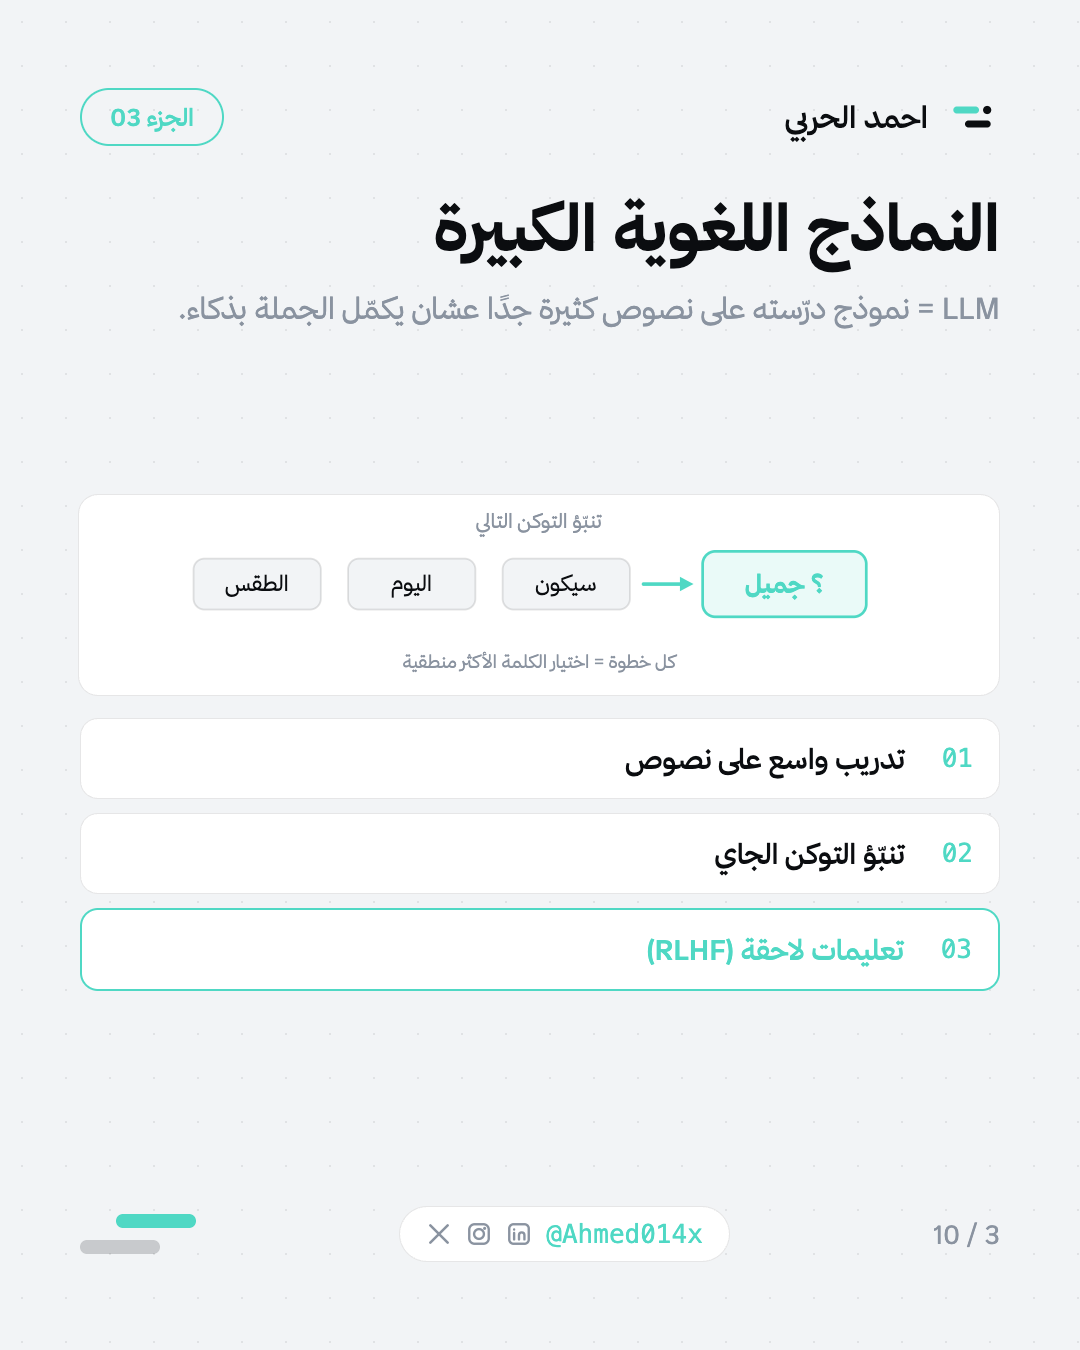
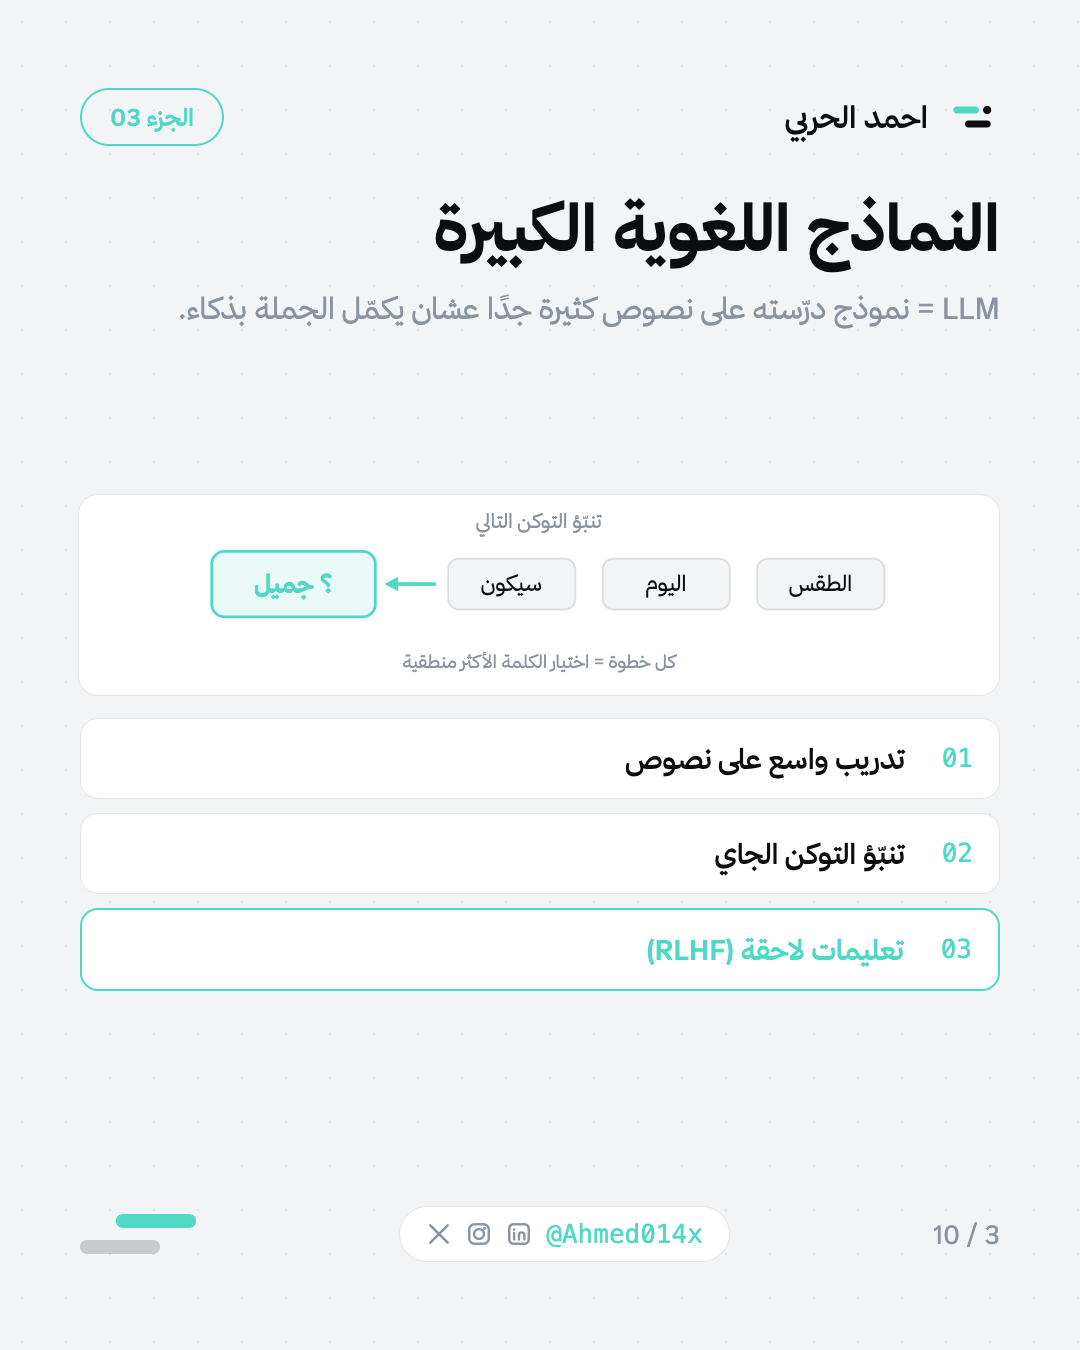
Update brand package HTML and PNG assets to enhance visual consistency, including adjustments to SVG elements and text direction for improved user experience in the generative AI story and poster series.

Changed region(s): [[0.5806, 0.4044, 0.825, 0.4667], [0.1833, 0.4044, 0.3972, 0.4667], [0.4583, 0.4044, 0.55, 0.4667]]

diff --git a/brand-package/html/سلسلة-الذكاء-التوليدي.html b/brand-package/html/سلسلة-الذكاء-التوليدي.html
@@ -50,32 +50,32 @@ body{margin:0;background:#e8ebee;font-family:'Thmanyah Sans',sans-serif}
   <div style="flex:1;display:flex;flex-direction:column;justify-content:center;gap:22px">
     <div style="display:grid;grid-template-columns:1fr 1fr;gap:20px">
       <div style="background:#ffffff;border:1px solid rgba(11,13,16,.10);border-radius:20px;padding:28px;text-align:center">
-        <div style="display:flex;justify-content:center;margin-bottom:16px"><svg width="44" height="44" viewBox="0 0 96 96" fill="none" stroke="#0b0d10" stroke-width="6" stroke-linecap="round"><circle cx="28" cy="48" r="14"/><path d="M42 48h16"/><circle cx="72" cy="28" r="12"/><circle cx="72" cy="68" r="12"/><path d="M58 48L72 34M58 48L72 62"/></svg></div>
+        <div style="display:flex;justify-content:center;margin-bottom:16px"><svg width="44" height="44" viewBox="0 0 96 96" fill="none" stroke="#0b0d10" stroke-width="6" stroke-linecap="round"><circle cx="68" cy="48" r="14"/><path d="M54 48h-16"/><circle cx="24" cy="28" r="12"/><circle cx="24" cy="68" r="12"/><path d="M38 48L24 34M38 48L24 62"/></svg></div>
         <div style="font-size:30px;font-weight:600;color:#0b0d10">تمييزي</div>
-        <div style="margin-top:10px;font-size:24px;color:#8a93a0;line-height:1.55">مدخل → يصنّف<br/>قطة؟ سبام؟</div>
+        <div style="margin-top:10px;font-size:24px;color:#8a93a0;line-height:1.55">مدخل ← يصنّف<br/>قطة؟ سبام؟</div>
         <svg viewBox="0 0 280 90" width="100%" height="90" style="margin-top:16px">
-          <rect x="20" y="30" width="70" height="36" rx="8" fill="#f2f4f6" stroke="#8a93a0" stroke-width="2"/>
-          <text x="55" y="54" text-anchor="middle" fill="#0b0d10" font-size="16" font-family="Thmanyah Sans">صورة</text>
-          <path d="M100 48h30" stroke="#8a93a0" stroke-width="3" stroke-linecap="round"/>
-          <polygon points="130,42 142,48 130,54" fill="#8a93a0"/>
-          <rect x="150" y="18" width="50" height="28" rx="6" fill="#f2f4f6" stroke="#8a93a0" stroke-width="2"/>
-          <text x="175" y="38" text-anchor="middle" fill="#0b0d10" font-size="14" font-family="Thmanyah Sans">نعم</text>
-          <rect x="150" y="54" width="50" height="28" rx="6" fill="#f2f4f6" stroke="#8a93a0" stroke-width="2"/>
-          <text x="175" y="74" text-anchor="middle" fill="#0b0d10" font-size="14" font-family="Thmanyah Sans">لا</text>
-          <path d="M142 48 L150 32 M142 48 L150 68" stroke="#8a93a0" stroke-width="2"/>
+          <rect x="190" y="30" width="70" height="36" rx="8" fill="#f2f4f6" stroke="#8a93a0" stroke-width="2"/>
+          <text x="225" y="54" text-anchor="middle" fill="#0b0d10" font-size="16" font-family="Thmanyah Sans">صورة</text>
+          <path d="M180 48h-30" stroke="#8a93a0" stroke-width="3" stroke-linecap="round"/>
+          <polygon points="150,42 138,48 150,54" fill="#8a93a0"/>
+          <rect x="80" y="18" width="50" height="28" rx="6" fill="#f2f4f6" stroke="#8a93a0" stroke-width="2"/>
+          <text x="105" y="38" text-anchor="middle" fill="#0b0d10" font-size="14" font-family="Thmanyah Sans">نعم</text>
+          <rect x="80" y="54" width="50" height="28" rx="6" fill="#f2f4f6" stroke="#8a93a0" stroke-width="2"/>
+          <text x="105" y="74" text-anchor="middle" fill="#0b0d10" font-size="14" font-family="Thmanyah Sans">لا</text>
+          <path d="M138 48 L130 32 M138 48 L130 68" stroke="#8a93a0" stroke-width="2"/>
         </svg>
       </div>
       <div style="background:#ffffff;border:2.5px solid #4fd8c4;border-radius:20px;padding:28px;text-align:center">
         <div style="display:flex;justify-content:center;margin-bottom:16px"><svg width="44" height="44" viewBox="0 0 96 96" fill="none" stroke="#4fd8c4" stroke-width="6" stroke-linecap="round" stroke-linejoin="round"><path d="M48 12l8 28 28 8-28 8-8 28-8-28-28-8 28-8z"/></svg></div>
         <div style="font-size:30px;font-weight:600;color:#4fd8c4">توليدي</div>
-        <div style="margin-top:10px;font-size:24px;color:#8a93a0;line-height:1.55">طلب → يصنع<br/>جملة / رسمة</div>
+        <div style="margin-top:10px;font-size:24px;color:#8a93a0;line-height:1.55">طلب ← يصنع<br/>جملة / رسمة</div>
         <svg viewBox="0 0 280 90" width="100%" height="90" style="margin-top:16px">
-          <rect x="16" y="28" width="70" height="36" rx="8" fill="rgba(79,216,196,.12)" stroke="#4fd8c4" stroke-width="2.5"/>
-          <text x="51" y="52" text-anchor="middle" fill="#0b0d10" font-size="15" font-family="Thmanyah Sans">وصف</text>
-          <path d="M96 46h28" stroke="#4fd8c4" stroke-width="3" stroke-linecap="round"/>
-          <polygon points="124,40 136,46 124,52" fill="#4fd8c4"/>
-          <rect x="144" y="20" width="112" height="52" rx="10" fill="rgba(79,216,196,.12)" stroke="#4fd8c4" stroke-width="2.5"/>
-          <text x="200" y="52" text-anchor="middle" fill="#4fd8c4" font-size="16" font-family="Thmanyah Sans" font-weight="600">مخرج جديد</text>
+          <rect x="194" y="28" width="70" height="36" rx="8" fill="rgba(79,216,196,.12)" stroke="#4fd8c4" stroke-width="2.5"/>
+          <text x="229" y="52" text-anchor="middle" fill="#0b0d10" font-size="15" font-family="Thmanyah Sans">وصف</text>
+          <path d="M184 46h-28" stroke="#4fd8c4" stroke-width="3" stroke-linecap="round"/>
+          <polygon points="156,40 144,46 156,52" fill="#4fd8c4"/>
+          <rect x="24" y="20" width="112" height="52" rx="10" fill="rgba(79,216,196,.12)" stroke="#4fd8c4" stroke-width="2.5"/>
+          <text x="80" y="52" text-anchor="middle" fill="#4fd8c4" font-size="16" font-family="Thmanyah Sans" font-weight="600">مخرج جديد</text>
         </svg>
       </div>
     </div>
@@ -102,17 +102,17 @@ body{margin:0;background:#e8ebee;font-family:'Thmanyah Sans',sans-serif}
   <div style="flex:1;display:flex;flex-direction:column;justify-content:center;gap:22px">
     <svg viewBox="0 0 920 220" width="100%" height="200" style="background:#ffffff;border-radius:20px;border:1px solid rgba(11,13,16,.10)">
       <text x="460" y="36" text-anchor="middle" fill="#8a93a0" font-size="22" font-family="Thmanyah Sans">تنبّؤ التوكن التالي</text>
-      <!-- tokens RTL visual: show Arabic words left to right in LTR svg coords for flow -->
-      <rect x="80" y="70" width="140" height="56" rx="12" fill="#f2f4f6" stroke="rgba(11,13,16,.12)" stroke-width="2"/>
-      <text x="150" y="106" text-anchor="middle" fill="#0b0d10" font-size="24" font-family="Thmanyah Sans">الطقس</text>
-      <rect x="250" y="70" width="140" height="56" rx="12" fill="#f2f4f6" stroke="rgba(11,13,16,.12)" stroke-width="2"/>
-      <text x="320" y="106" text-anchor="middle" fill="#0b0d10" font-size="24" font-family="Thmanyah Sans">اليوم</text>
-      <rect x="420" y="70" width="140" height="56" rx="12" fill="#f2f4f6" stroke="rgba(11,13,16,.12)" stroke-width="2"/>
-      <text x="490" y="106" text-anchor="middle" fill="#0b0d10" font-size="24" font-family="Thmanyah Sans">سيكون</text>
-      <path d="M575 98h40" stroke="#4fd8c4" stroke-width="4" stroke-linecap="round"/>
-      <polygon points="615,90 630,98 615,106" fill="#4fd8c4"/>
-      <rect x="640" y="62" width="180" height="72" rx="14" fill="rgba(79,216,196,.12)" stroke="#4fd8c4" stroke-width="3"/>
-      <text x="730" y="108" text-anchor="middle" fill="#4fd8c4" font-size="28" font-family="Thmanyah Sans" font-weight="700">؟ جميل</text>
+      <!-- RTL: البداية يمين → التنبؤ يسار -->
+      <rect x="700" y="70" width="140" height="56" rx="12" fill="#f2f4f6" stroke="rgba(11,13,16,.12)" stroke-width="2"/>
+      <text x="770" y="106" text-anchor="middle" fill="#0b0d10" font-size="24" font-family="Thmanyah Sans">الطقس</text>
+      <rect x="530" y="70" width="140" height="56" rx="12" fill="#f2f4f6" stroke="rgba(11,13,16,.12)" stroke-width="2"/>
+      <text x="600" y="106" text-anchor="middle" fill="#0b0d10" font-size="24" font-family="Thmanyah Sans">اليوم</text>
+      <rect x="360" y="70" width="140" height="56" rx="12" fill="#f2f4f6" stroke="rgba(11,13,16,.12)" stroke-width="2"/>
+      <text x="430" y="106" text-anchor="middle" fill="#0b0d10" font-size="24" font-family="Thmanyah Sans">سيكون</text>
+      <path d="M345 98h-40" stroke="#4fd8c4" stroke-width="4" stroke-linecap="round"/>
+      <polygon points="305,90 290,98 305,106" fill="#4fd8c4"/>
+      <rect x="100" y="62" width="180" height="72" rx="14" fill="rgba(79,216,196,.12)" stroke="#4fd8c4" stroke-width="3"/>
+      <text x="190" y="108" text-anchor="middle" fill="#4fd8c4" font-size="28" font-family="Thmanyah Sans" font-weight="700">؟ جميل</text>
       <text x="460" y="190" text-anchor="middle" fill="#8a93a0" font-size="20" font-family="Thmanyah Sans">كل خطوة = اختيار الكلمة الأكثر منطقية</text>
     </svg>
     <div style="display:flex;flex-direction:column;gap:14px">
@@ -240,7 +240,7 @@ body{margin:0;background:#e8ebee;font-family:'Thmanyah Sans',sans-serif}
   <div style="flex:1;display:grid;grid-template-columns:1fr 1fr;gap:20px;align-content:center">
     <div style="background:#ffffff;border:1px solid rgba(11,13,16,.10);border-radius:20px;padding:32px;display:flex;flex-direction:column;align-items:center;gap:14px;text-align:center">
       <svg width="48" height="48" viewBox="0 0 96 96" fill="none" stroke="#0b0d10" stroke-width="6" stroke-linecap="round" stroke-linejoin="round"><rect x="16" y="22" width="64" height="52" rx="8"/><circle cx="36" cy="40" r="8"/><path d="M16 62l18-14 14 12 12-10 20 18"/></svg>
-      <div style="font-size:30px;font-weight:700;color:#0b0d10">نص → صورة</div>
+      <div style="font-size:30px;font-weight:700;color:#0b0d10">نص ← صورة</div>
       <div style="font-size:22px;color:#8a93a0">Diffusion ومولدات</div>
     </div>
     <div style="background:#ffffff;border:1px solid rgba(11,13,16,.10);border-radius:20px;padding:32px;display:flex;flex-direction:column;align-items:center;gap:14px;text-align:center">
@@ -277,24 +277,23 @@ body{margin:0;background:#e8ebee;font-family:'Thmanyah Sans',sans-serif}
   </div>
   <div style="flex:1;display:flex;flex-direction:column;justify-content:center;gap:20px">
     <svg viewBox="0 0 920 280" width="100%" height="250" style="background:#ffffff;border-radius:20px;border:1px solid rgba(11,13,16,.10)">
-      <rect x="40" y="40" width="160" height="80" rx="14" fill="#f2f4f6" stroke="rgba(11,13,16,.12)" stroke-width="2"/>
-      <text x="120" y="78" text-anchor="middle" fill="#0b0d10" font-size="22" font-family="Thmanyah Sans" font-weight="600">مستنداتك</text>
-      <text x="120" y="104" text-anchor="middle" fill="#8a93a0" font-size="16" font-family="Thmanyah Sans">PDF · موقع</text>
-      <path d="M210 80h50" stroke="#4fd8c4" stroke-width="3"/>
-      <polygon points="260,74 275,80 260,86" fill="#4fd8c4"/>
-      <rect x="280" y="40" width="160" height="80" rx="14" fill="#f2f4f6" stroke="rgba(11,13,16,.12)" stroke-width="2"/>
-      <text x="360" y="78" text-anchor="middle" fill="#0b0d10" font-size="22" font-family="Thmanyah Sans" font-weight="600">بحث Embedding</text>
-      <text x="360" y="104" text-anchor="middle" fill="#8a93a0" font-size="16" font-family="Thmanyah Sans">أقرب مقاطع</text>
-      <path d="M450 80h50" stroke="#4fd8c4" stroke-width="3"/>
-      <polygon points="500,74 515,80 500,86" fill="#4fd8c4"/>
-      <rect x="520" y="30" width="180" height="100" rx="14" fill="rgba(79,216,196,.12)" stroke="#4fd8c4" stroke-width="3"/>
-      <text x="610" y="75" text-anchor="middle" fill="#4fd8c4" font-size="22" font-family="Thmanyah Sans" font-weight="700">سياق + سؤال</text>
-      <text x="610" y="105" text-anchor="middle" fill="#8a93a0" font-size="16" font-family="Thmanyah Sans">للنموذج</text>
-      <path d="M710 80h40" stroke="#4fd8c4" stroke-width="3"/>
-      <polygon points="750,74 765,80 750,86" fill="#4fd8c4"/>
-      <rect x="770" y="40" width="110" height="80" rx="14" fill="#f2f4f6" stroke="rgba(11,13,16,.12)" stroke-width="2"/>
-      <text x="825" y="88" text-anchor="middle" fill="#0b0d10" font-size="22" font-family="Thmanyah Sans" font-weight="600">جواب</text>
-      <!-- bottom note -->
+      <rect x="720" y="40" width="160" height="80" rx="14" fill="#f2f4f6" stroke="rgba(11,13,16,.12)" stroke-width="2"/>
+      <text x="800" y="78" text-anchor="middle" fill="#0b0d10" font-size="22" font-family="Thmanyah Sans" font-weight="600">مستنداتك</text>
+      <text x="800" y="104" text-anchor="middle" fill="#8a93a0" font-size="16" font-family="Thmanyah Sans">PDF · موقع</text>
+      <path d="M710 80h-50" stroke="#4fd8c4" stroke-width="3"/>
+      <polygon points="660,74 645,80 660,86" fill="#4fd8c4"/>
+      <rect x="480" y="40" width="160" height="80" rx="14" fill="#f2f4f6" stroke="rgba(11,13,16,.12)" stroke-width="2"/>
+      <text x="560" y="78" text-anchor="middle" fill="#0b0d10" font-size="22" font-family="Thmanyah Sans" font-weight="600">بحث Embedding</text>
+      <text x="560" y="104" text-anchor="middle" fill="#8a93a0" font-size="16" font-family="Thmanyah Sans">أقرب مقاطع</text>
+      <path d="M470 80h-50" stroke="#4fd8c4" stroke-width="3"/>
+      <polygon points="420,74 405,80 420,86" fill="#4fd8c4"/>
+      <rect x="220" y="30" width="180" height="100" rx="14" fill="rgba(79,216,196,.12)" stroke="#4fd8c4" stroke-width="3"/>
+      <text x="310" y="75" text-anchor="middle" fill="#4fd8c4" font-size="22" font-family="Thmanyah Sans" font-weight="700">سياق + سؤال</text>
+      <text x="310" y="105" text-anchor="middle" fill="#8a93a0" font-size="16" font-family="Thmanyah Sans">للنموذج</text>
+      <path d="M210 80h-40" stroke="#4fd8c4" stroke-width="3"/>
+      <polygon points="170,74 155,80 170,86" fill="#4fd8c4"/>
+      <rect x="40" y="40" width="110" height="80" rx="14" fill="#f2f4f6" stroke="rgba(11,13,16,.12)" stroke-width="2"/>
+      <text x="95" y="88" text-anchor="middle" fill="#0b0d10" font-size="22" font-family="Thmanyah Sans" font-weight="600">جواب</text>
       <rect x="120" y="180" width="680" height="60" rx="14" fill="rgba(79,216,196,.08)" stroke="rgba(79,216,196,.35)" stroke-width="2"/>
       <text x="460" y="218" text-anchor="middle" fill="#0b0d10" font-size="24" font-family="Thmanyah Sans">أقل هلوسة · أقرب لواقع شغلك · مع مصدر</text>
     </svg>
